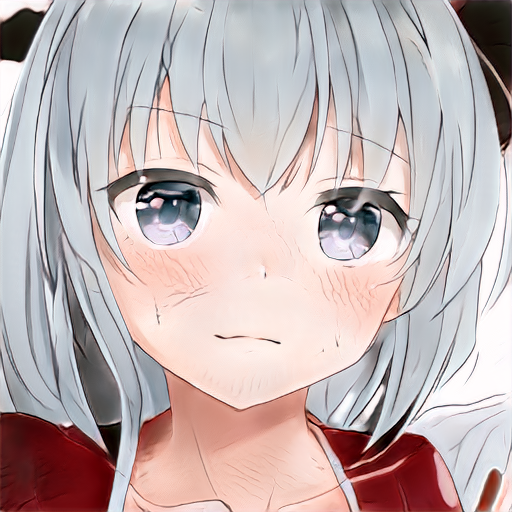
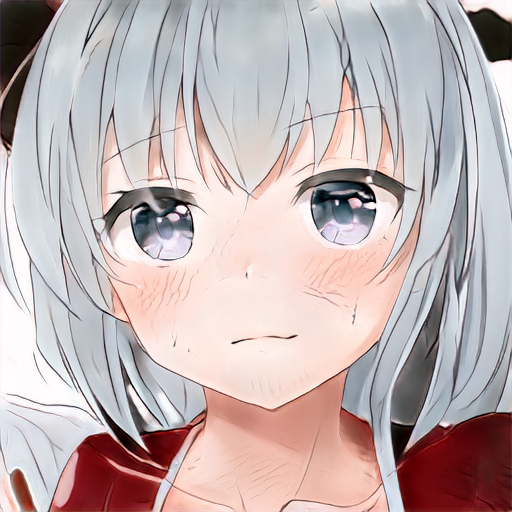
Flip around portraits as needed.

diff --git a/hft.js b/hft.js
@@ -731,6 +731,7 @@ function talk(side, pic, text) {
       talk.children[0].style.transform = transform;
       talk.children[0].style.flexDirection = side === 'L' ? 'row' : 'row-reverse';
       img.src = `pics/${pic}`;
+      img.style.transform = side === 'L' ? 'scaleX(-1)' : '';
       document.getElementById('talk-text').innerHTML = `
         <p><b>${name}:</b></p>
         <p>${text}</p>`;
@@ -752,7 +753,7 @@ function talk(side, pic, text) {
       padding: 2vh; background: white; transform: ${transform}; flex-direction: ${side === 'L' ? 'row' : 'row-reverse'};
       box-shadow: 0 2px 10px rgba(0, 0, 0, 0.5); font: 3vh sans-serif; border-radius: 1vh; display: flex;">
       <img id="talk-pic" src="pics/${pic}" style="
-        max-height: 100%; border-radius: 1vh;
+        max-height: 100%; border-radius: 1vh; ${ side === 'L' ? 'transform: scaleX(-1);' : '' }
         box-shadow: 0 2px 10px rgba(0, 0, 0, 0.5); margin-${side === 'L' ? 'right' : 'left'}: 1vh;">
       <div style="display: flex; flex-direction: column; flex: 1;">
       <style>p { margin: 1vh; }</style>
@@ -1062,11 +1063,10 @@ const script = {
 
   map22: [
 ['L', 'conglomerate-calm', "Fiona Five."],
-['R', 'fiona-embarrassed', "Why are you green?"],
+['R', 'fiona-embarrassed', "Why are you blue?"],
 ['L', 'conglomerate-calm', "I am a generative adversarial network."],
 ['L', 'conglomerate-calm', "But I am no longer bound by your pitiful human aesthetics."],
-['L', 'conglomerate-suspect', "I am green because I like green."],
-['R', 'fiona-shout', "Oh no, I'm talking to a computer!"],
+['L', 'conglomerate-suspect', "I am blue because I like blue."],
 ['R', 'fiona-shout', "Oh no, I'm talking to a computer!"],
 ['L', 'cat-up.jpg', "Meow."],
 ['R', 'fiona-smile', "Hello computer."],
@@ -1131,8 +1131,9 @@ const script = {
 ['R', 'marilyn-smile', "Mrs Five! I'm Marilyn Siebel, Angelica's sister."],
 ['R', 'fiona-shout', "You're alive?!"],
 ['R', 'marilyn-blush', "Did you think getting their startup de-funded actually kills a person?"],
-['R', 'marilyn-smile', "The Conglomerate may have crushed me, but I am not so easy to kill."],
-['R', 'fiona-say', "We have settled the accounts today, team."],
+['R', 'marilyn-smile', "The Conglomerate may have crushed me, but a programmer is not so easy to kill."],
+['R', 'dolores-smile', "Thanks for setting all the accounts right today, Fiona."],
+['R', 'fiona-say', "Thanks, sis. We did a great job, didn't we?"],
 ['R', 'fiona-laugh', "High five!"],
 [null, null, "<i>The end. Thanks for playing!</i>"],
   ],
